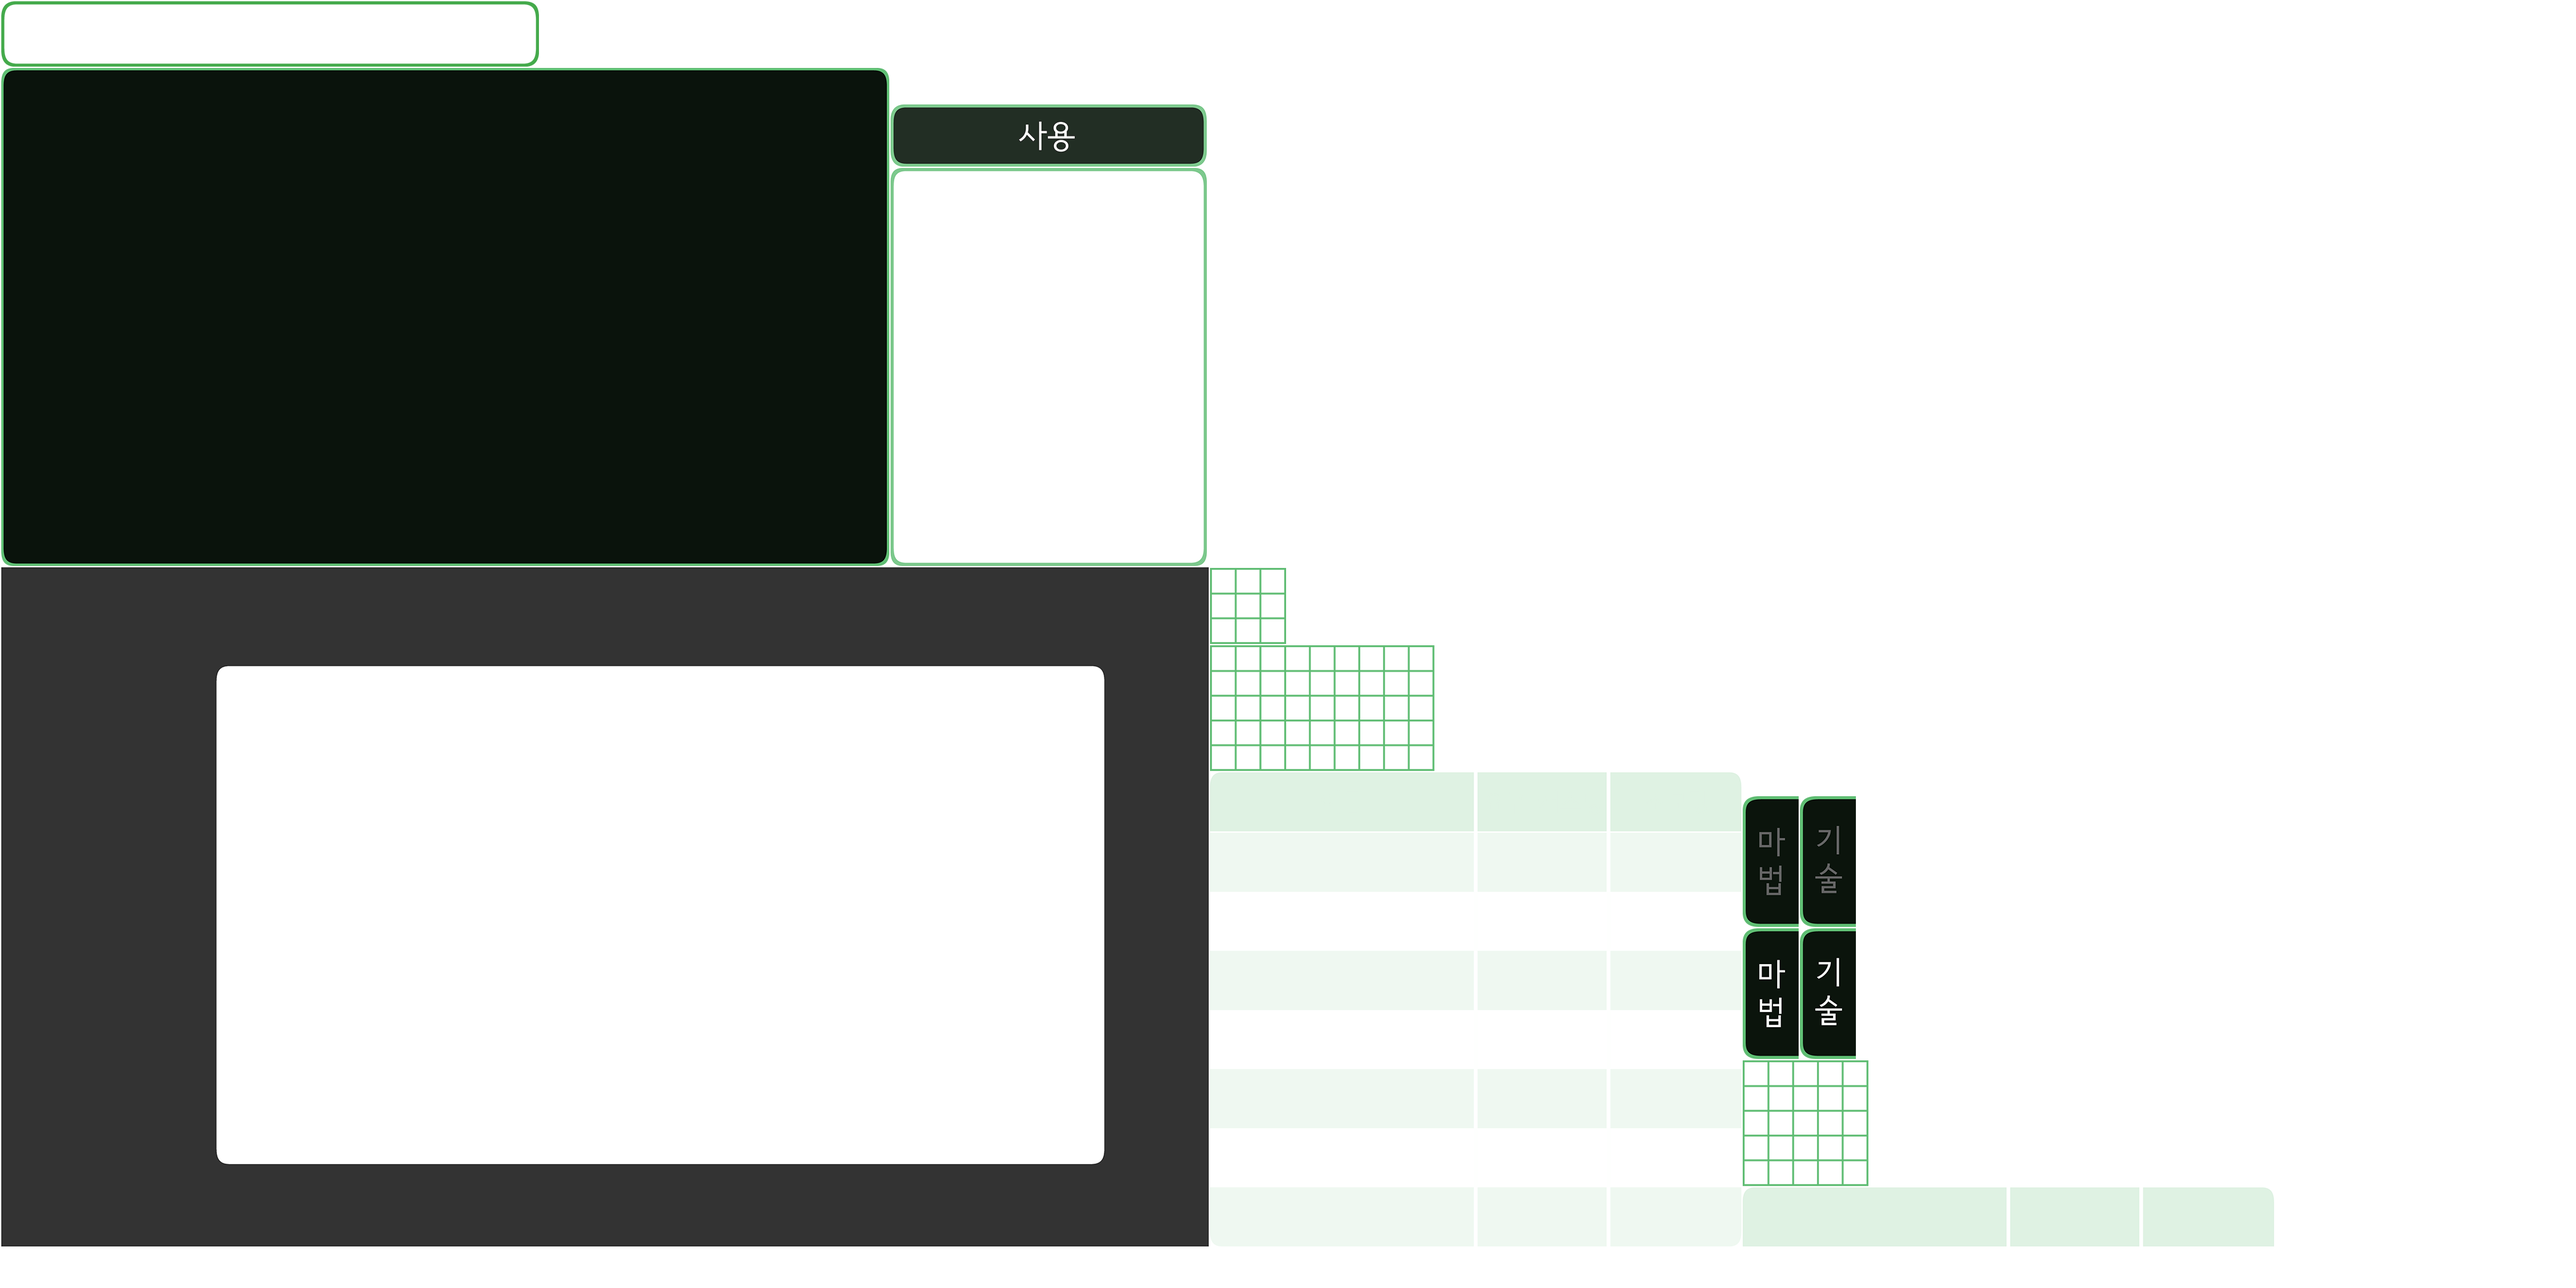
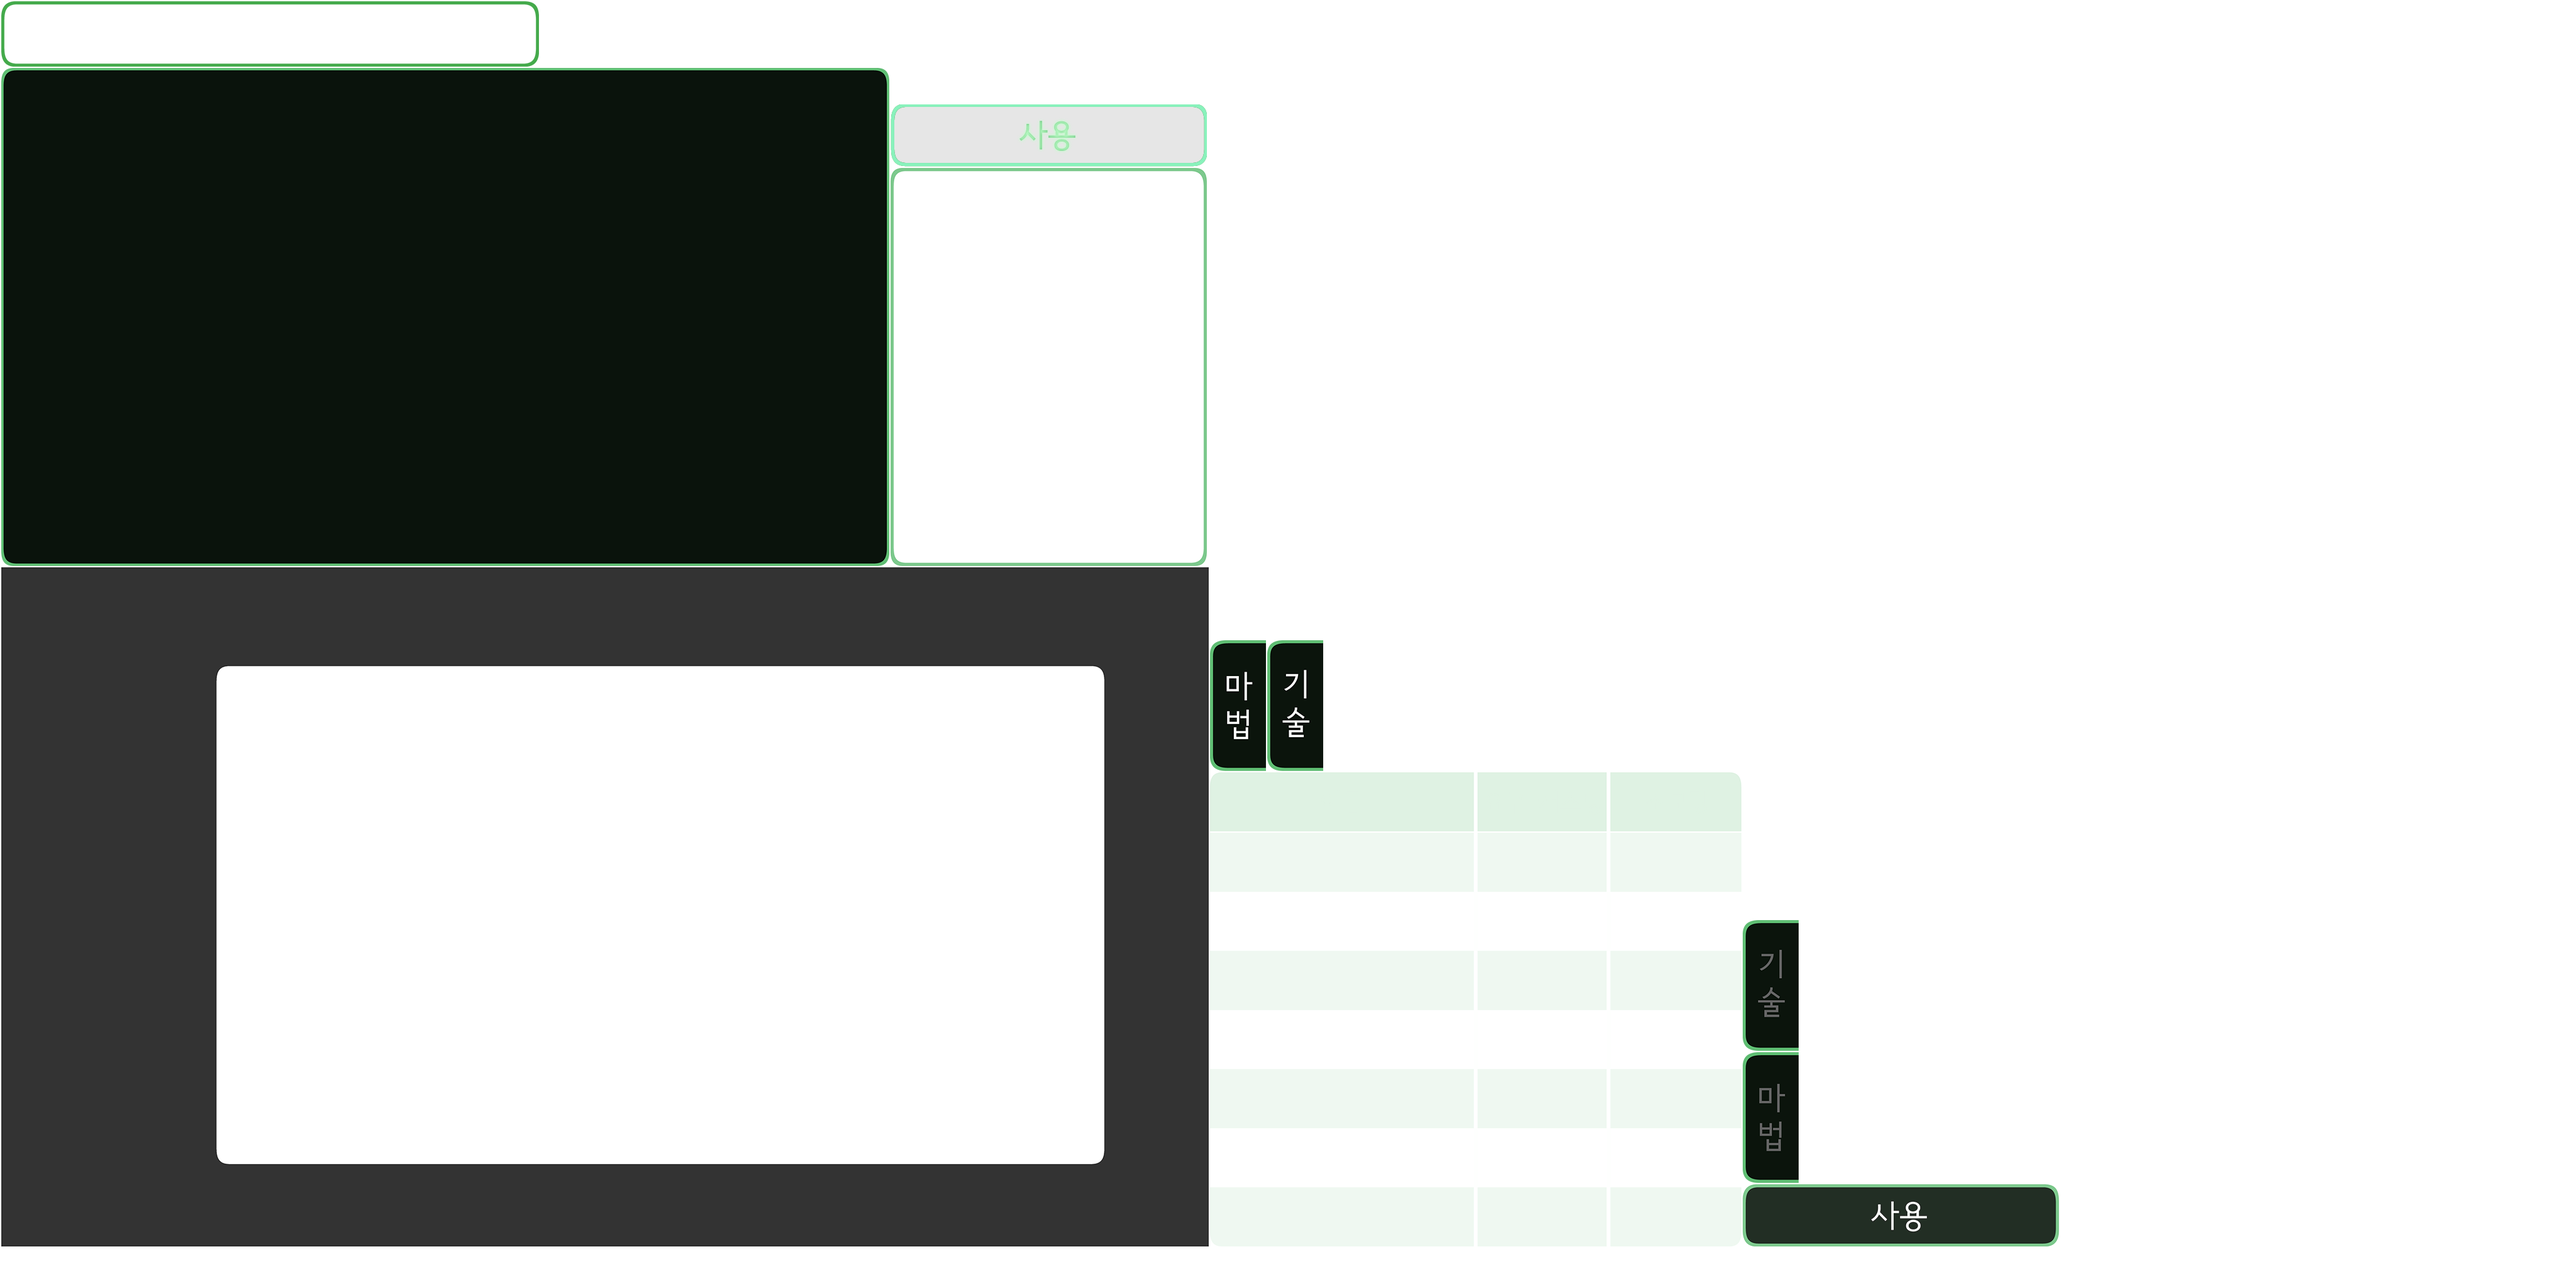
#209 추가작업

Changed region(s): [[0.6562, 0.5938, 0.9062, 0.9688], [0.4688, 0.4375, 0.5625, 0.625], [0.3438, 0.0625, 0.4688, 0.1562]]

diff --git a/core/src/com/mygdx/stage/SkillStage.java b/core/src/com/mygdx/stage/SkillStage.java
@@ -13,7 +13,6 @@ import com.badlogic.gdx.scenes.scene2d.ui.Image;
 import com.mygdx.assets.StaticAssets;
 import com.uwsoft.editor.renderer.actor.CompositeItem;
 import com.uwsoft.editor.renderer.actor.ImageItem;
-import com.uwsoft.editor.renderer.actor.LabelItem;
 import com.uwsoft.editor.renderer.data.LabelVO;
 
 public class SkillStage extends BaseOverlapStage {
@@ -38,15 +37,17 @@ public class SkillStage extends BaseOverlapStage {
 	}
 
 	private void labelSet() {
-		labels = sceneLoader.getRoot().dataVO.composite.sLabels;
-		LabelItem labelItem = sceneLoader.getRoot().getLabelById(labels.get(0).itemIdentifier);
-		labelItem.setText(partyInfo.getBattleMemberList().get(partyInfo.getSelectedInedex()).getName());
+		// labels = sceneLoader.getRoot().dataVO.composite.sLabels;
+		// LabelItem labelItem =
+		// sceneLoader.getRoot().getLabelById(labels.get(0).itemIdentifier);
+		// labelItem.setText(partyInfo.getBattleMemberList().get(partyInfo.getSelectedInedex()).getName());
 
-		for (int i = 1; i < labels.size(); i++) {
-			labelItem = sceneLoader.getRoot().getLabelById(labels.get(i).itemIdentifier);
-			labelItem.setText(
-					partyInfo.getBattleMemberList().get(partyInfo.getSelectedInedex()).getStatus().getStatusList()[i]);
-		}
+		// for (int i = 1; i < labels.size(); i++) {
+		// labelItem =
+		// sceneLoader.getRoot().getLabelById(labels.get(i).itemIdentifier);
+		// labelItem.setText(
+		// partyInfo.getBattleMemberList().get(partyInfo.getSelectedInedex()).getStatus().getStatusList()[i]);
+		// }
 	}
 
 	private void setSkillType() {
@@ -67,13 +68,13 @@ public class SkillStage extends BaseOverlapStage {
 			public void touchUp(InputEvent event, float x, float y, int pointer, int button) {
 				skillTypeButton_01.setLayerVisibilty("pressed", true);
 				skillTypeButton_01.setLayerVisibilty("Default", false);
-				skillTypeButton_02.setLayerVisibilty("normal", true);
+				skillTypeButton_02.setLayerVisibilty("Default", true);
 				skillTypeButton_02.setLayerVisibilty("pressed", false);
 			}
 
 		});
 		// skillTypeButton.add(skillTypeButton_01);
-		skillTypeButton_02.setLayerVisibilty("normal", true);
+		skillTypeButton_02.setLayerVisibilty("Default", true);
 		skillTypeButton_02.setLayerVisibilty("pressed", false);
 		skillTypeButton_02.setTouchable(Touchable.enabled);
 		skillTypeButton_02.addListener(new InputListener() {
@@ -85,7 +86,7 @@ public class SkillStage extends BaseOverlapStage {
 			@Override
 			public void touchUp(InputEvent event, float x, float y, int pointer, int button) {
 				skillTypeButton_02.setLayerVisibilty("pressed", true);
-				skillTypeButton_02.setLayerVisibilty("normal", false);
+				skillTypeButton_02.setLayerVisibilty("Default", false);
 				skillTypeButton_01.setLayerVisibilty("Default", true);
 				skillTypeButton_01.setLayerVisibilty("pressed", false);
 			}
@@ -113,7 +114,8 @@ public class SkillStage extends BaseOverlapStage {
 		highlight_06.setLayerVisibilty("pressed", false);
 		highlight_07.setLayerVisibilty("pressed", false);
 
-		useButton.setLayerVisibilty("Default", true);
+		useButton.setLayerVisibilty("normal", true);
+		useButton.setLayerVisibilty("pressed", false);
 
 		highlight_01.setTouchable(Touchable.enabled);
 		highlight_02.setTouchable(Touchable.enabled);
@@ -262,11 +264,13 @@ public class SkillStage extends BaseOverlapStage {
 			@Override
 			public boolean touchDown(InputEvent event, float x, float y, int pointer, int button) {
 				useButton.setLayerVisibilty("Default", false);
+				useButton.setLayerVisibilty("pressed", true);
 				return true;
 			}
 
 			public void touchUp(InputEvent event, float x, float y, int pointer, int button) {
 				useButton.setLayerVisibilty("Default", true);
+				useButton.setLayerVisibilty("pressed", false);
 			}
 		});
 	}

diff --git a/core/src/com/mygdx/screen/BattleScreen.java b/core/src/com/mygdx/screen/BattleScreen.java
@@ -11,7 +11,7 @@ import com.mygdx.manager.AnimationManager;
 public class BattleScreen extends BaseScreen {
 	@Autowired
 	private AnimationManager animationManager;
-	private Stage gameUiStage, characterUiStage, monsterStage, battleStage, skillStage;
+	private Stage gameUiStage, characterUiStage, monsterStage, battleStage, skillStage, itemStage;
 
 	public BattleScreen() {
 	}
@@ -26,6 +26,7 @@ public class BattleScreen extends BaseScreen {
 		gameUiStage.draw();
 		battleStage.draw();
 		skillStage.draw();
+		itemStage.draw();
 
 		// Animation이 진행중일때는 사용자의 입력에 대한 행동을 수행하지 않음
 
@@ -37,6 +38,7 @@ public class BattleScreen extends BaseScreen {
 			gameUiStage.act();
 			battleStage.act();
 			skillStage.act();
+			itemStage.act();
 
 		}
 	}
@@ -61,6 +63,7 @@ public class BattleScreen extends BaseScreen {
 		monsterStage = stageFactory.makeStage(StageEnum.MONSTER);
 		battleStage = stageFactory.makeBattleStage();
 		skillStage = stageFactory.makeStage(StageEnum.SKILL);
+		itemStage = stageFactory.makeStage(StageEnum.ITEM);
 
 		setInputProcessor();
 		// musicManager.setBattleMusicAndPlay();
@@ -73,6 +76,7 @@ public class BattleScreen extends BaseScreen {
 		multiplexer.addProcessor(2, monsterStage);
 		multiplexer.addProcessor(3, battleStage);
 		multiplexer.addProcessor(4, skillStage);
+		multiplexer.addProcessor(5, itemStage);
 
 		Gdx.input.setInputProcessor(multiplexer);
 	}

diff --git a/core/src/com/mygdx/enums/StageEnum.java b/core/src/com/mygdx/enums/StageEnum.java
@@ -1,5 +1,5 @@
 package com.mygdx.enums;
 
 public enum StageEnum {
-	BATTLE, BUILDING, CHARACTER_UI, DUNGEON, DUNGEON_ENTRANCE, ENCOUNTER, EVENT, GAME_UI, MENU, MONSTER, SELECT_BUTTON, STATUS, TOUCH_PAD, VILLAGE, WORLD_MAP, SKILL;
+	BATTLE, BUILDING, CHARACTER_UI, DUNGEON, DUNGEON_ENTRANCE, ENCOUNTER, EVENT, GAME_UI, MENU, MONSTER, SELECT_BUTTON, STATUS, TOUCH_PAD, VILLAGE, WORLD_MAP, SKILL, ITEM;
 }

diff --git a/core/src/com/mygdx/stage/BattleStage.java b/core/src/com/mygdx/stage/BattleStage.java
@@ -259,6 +259,7 @@ public class BattleStage extends BaseOneLevelStage {
 			@Override
 			public void clicked(InputEvent event, float x, float y) {
 				Gdx.app.log("BattleStage", "인벤토리!");
+				stageFactory.makeStage(StageEnum.ITEM);
 			}
 		});
 		defenseButton.addListener(new ClickListener() {
